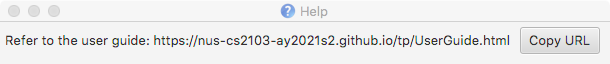
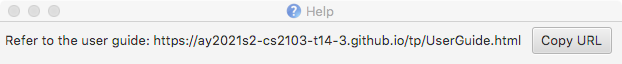
Fix HelpWindow URL

diff --git a/src/main/java/seedu/address/ui/HelpWindow.java b/src/main/java/seedu/address/ui/HelpWindow.java
@@ -15,7 +15,7 @@ import seedu.address.commons.core.LogsCenter;
  */
 public class HelpWindow extends UiPart<Stage> {
 
-    public static final String USERGUIDE_URL = "https://nus-cs2103-ay2021s2.github.io/tp/UserGuide.html";
+    public static final String USERGUIDE_URL = "https://ay2021s2-cs2103-t14-3.github.io/tp/UserGuide.html";
     public static final String HELP_MESSAGE = "Refer to the user guide: " + USERGUIDE_URL;
 
     private static final Logger logger = LogsCenter.getLogger(HelpWindow.class);
